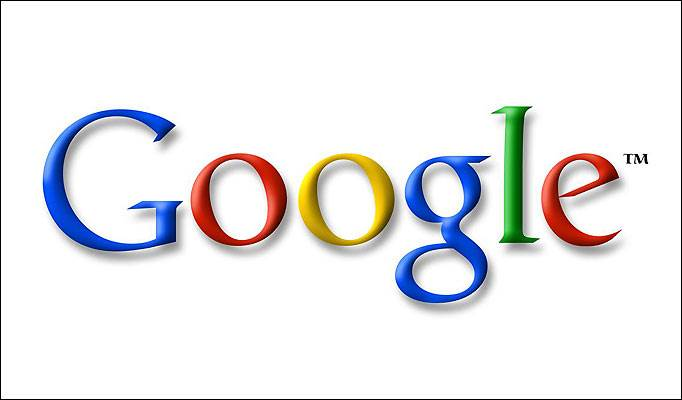
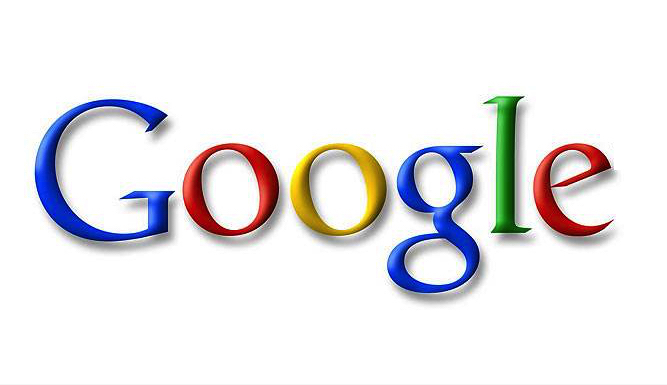
building my google page

Changed region(s): [[0.03, 0.2494, 0.9595, 0.8104], [0.0, 0.0, 1.0, 1.0], [0.0, 0.0, 0.03, 0.0312]]

diff --git a/index.html b/index.html
@@ -5,7 +5,15 @@
 
     </head>
     <body>
-        <div class="tabs"><a href="">Gmail</a> <a class="indent" href="">Images</a></div>
-          <div class="google"><img src="google.jpg" alt="google image"/></div>
+        <div class="tabs"><a href="">Gmail</a> <a class="indent" href="">Images</a><a class="indent" href=""></div>
+            <div><img src="dots.png" alt="dots for apps" height=4% width=4% class="dots"/></div>
+          <div><img src="app_dots.png" alt="Initial tag" height=5% width=5% class="initial"/></a></div>
+            <div class="google"><img src="google.jpg" alt="google image" height=15% width=40% class="logo"/>
+        </div>
+        <div id="form_container">
+            <form class="form">
+                <input type="text" placeholder="Search Google or type a URL" class="search">
+            </form>
+        </div>
     </body>
 </html>

diff --git a/styles.css b/styles.css
@@ -7,3 +7,40 @@ a {
 a.indent {
     padding-left: 2em;
 }
+.tabs {
+    position: relative;
+    margin-top: 5%;
+    margin-left: 70%;
+}
+.google {
+    position: relative;
+    margin-top: 20%;
+}
+.logo {
+    display:block; 
+    margin-left: auto; 
+    margin-right: auto;
+}
+.initial {
+    display: block;
+    margin-top: -6%;
+    margin-left: 90%;
+}
+.dots {
+    display: block;
+    margin-top: -4%;
+    margin-left: 84%;
+}
+.search {
+    display: block;
+    margin-left: auto;
+    margin-right: auto;
+    height: 40px;
+    width: 60%;
+    padding: 10px;
+    border: none;
+    border-radius: 30px;
+    outline: none;
+    font-size: 25px;
+    background-color: rgb(229, 229, 245);
+}
